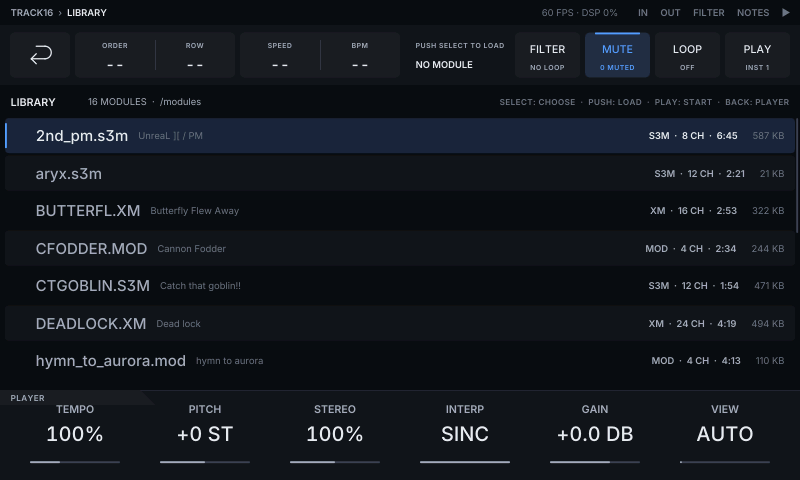
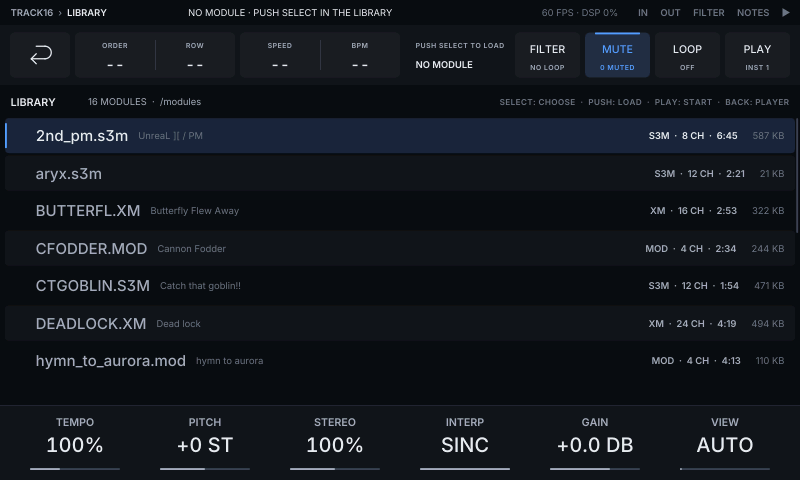
Slimmer knob strip, lasting status in the top line
The knob strip loses its PLAYER tab and 24 lpx; the rain gets the room.
The status row shows PLAYING: / PAUSED: / READY: <title> (or WAITING
FOR THE CLOCK:); a message replaces it for 4 s, then it comes back.

diff --git a/app/Screen.cpp b/app/Screen.cpp
@@ -32,7 +32,8 @@ const juce::String kDot = juce::String(juce::CharPointer_UTF8("\xC2\xB7"));     
 
 // The body (canvas lpx) and the rain area (LCD px).
 const juce::Rectangle<float> kBody {0, L::bodyY + 1, theme::kCanvasW, L::stripY - L::bodyY - 1};
-constexpr float kRainX = 8, kRainY = 96, kRainW = 784, kRainH = 284; // inside the body: 152…606 lpx
+constexpr float kRainX = 8, kRainY = 96, kRainW = 784; // inside the body (LCD px = lpx × 0.625)
+constexpr float kRainH = L::contentBottom * Screen::kWidth / theme::kCanvasW - kRainY; // to the body's bottom margin
 
 std::uint64_t nowNs() noexcept
 {
@@ -352,11 +353,10 @@ struct Screen::KnobStrip final : juce::Component
     std::array<juce::String, 6> text {};
     std::array<double, 6> touchedAt {-1e9, -1e9, -1e9, -1e9, -1e9, -1e9};
     std::array<bool, 6> underlined {};
-    juce::String tab = "PLAYER";
 
     juce::Rectangle<int> column(int n) const
     {
-        return juce::Rectangle<float>(L::columnX0 + L::columnW * static_cast<float>(n), L::tabH, L::columnW, L::stripH - L::tabH).toNearestInt();
+        return juce::Rectangle<float>(L::columnX0 + L::columnW * static_cast<float>(n), 0, L::columnW, L::stripH).toNearestInt();
     }
     void set(int n, float v, const juce::String& t)
     {
@@ -379,11 +379,6 @@ struct Screen::KnobStrip final : juce::Component
         g.setColour(c::surface1);
         g.fillRect(0.0f, L::stripY, theme::kCanvasW, L::stripH);
         theme::hline(g, 0, theme::kCanvasW, L::stripY, c::border);
-        juce::Path tabPath;
-        tabPath.addQuadrilateral(0, L::stripY, L::tabTopW, L::stripY, L::tabW, L::stripY + L::tabH, 0, L::stripY + L::tabH);
-        g.setColour(c::surface2);
-        g.fillPath(tabPath);
-        theme::text(g, 16, L::stripY + 13, Align::Left, Text::Label, c::text2, tab);
         for (int n = 0; n < 6; ++n)
         {
             const auto i = static_cast<std::size_t>(n);
@@ -608,7 +603,12 @@ void Screen::setStatus(const Status& s)
     status_->set(status_->diag, statusBase_);
 }
 
-void Screen::event(const juce::String& text) { status_->set(status_->event, text.toUpperCase()); }
+// A message in the status row for kEventMs; then the lasting state comes back (frame(): PLAYING: <title>, …).
+void Screen::event(const juce::String& text)
+{
+    status_->set(status_->event, text.toUpperCase());
+    eventUntilMs_ = lastFrameMs_ + kEventMs;
+}
 
 void Screen::start()
 {
@@ -1274,11 +1274,7 @@ bool Screen::handle(const io::ControlEvent& e, double nowMs)
         else
             setView(View::Library);
         break;
-    case C::Play:
-        if (song_)
-            event(player_.playing() ? juce::String("PAUSED") : "PLAYING " + juce::String::fromUTF8(song_->title.c_str()));
-        player_.togglePlay();
-        break;
+    case C::Play: player_.togglePlay(); break;
     case C::Stop:
         player_.stop();
         if (shift_) // everything back: mutes, solos
@@ -1476,6 +1472,21 @@ void Screen::frame(double nowMs, float fps)
     player_.collect();
     takeLoaded();
     takeProbed();
+    // The status row's lasting state, once a message has had its time: PLAYING: / PAUSED: / READY: <title>.
+    if (nowMs >= eventUntilMs_)
+    {
+        juce::String state = "NO MODULE " + kDot + " PUSH SELECT IN THE LIBRARY";
+        if (song_)
+        {
+            const auto pos = player_.position();
+            const char* what = player_.syncState() == Player::SyncWaiting ? "WAITING FOR THE CLOCK: "
+                             : player_.playing()                          ? "PLAYING: "
+                             : pos.order == 0 && pos.row == 0             ? "READY: "
+                                                                          : "PAUSED: ";
+            state = what + juce::String::fromUTF8(song_->title.c_str());
+        }
+        status_->set(status_->event, state.toUpperCase());
+    }
     if (const int m = player_.measurements(); m != lastMeasurements_)
     {
         lastMeasurements_ = m;

diff --git a/app/Theme.h b/app/Theme.h
@@ -58,15 +58,16 @@ inline constexpr float radiusXs = 4, radiusS = 6, radiusM = 8, radiusL = 12;
 inline constexpr float pad = 16, gap = 8;
 namespace layout
 {
-inline constexpr float statusH = 40, contextY = 40, contextH = 96, stripH = 144, stripY = kCanvasH - stripH;
-inline constexpr float bodyY = contextY + contextH, contentTop = bodyY + pad, contentBottom = stripY - pad; // 152–608
+inline constexpr float statusH = 40, contextY = 40, contextH = 96, stripH = 120, stripY = kCanvasH - stripH;
+inline constexpr float bodyY = contextY + contextH, contentTop = bodyY + pad, contentBottom = stripY - pad; // 152–632
 inline constexpr float ctlY = contextY + 12, ctlH = 72, captionY = 72, valueY = 104;
 inline const juce::Rectangle<float> slotA {16, ctlY, 96, ctlH}, slotB {120, ctlY, 256, ctlH}, slotC {384, ctlY, 256, ctlH},
     slotD {648, ctlY, 160, ctlH}, slotE {824, ctlY, 440, ctlH};
 inline constexpr float readoutX = 664, menuButtonW = 104;
 inline juce::Rectangle<float> menuButton(int i) { return {slotE.getX() + (menuButtonW + gap) * static_cast<float>(i), ctlY, menuButtonW, ctlH}; }
-inline constexpr float tabW = 248, tabTopW = 224, tabH = 24, columnX0 = 16, columnW = 208;
-inline constexpr float columnCaptionY = 654, columnValueY = 694, columnTrackY = 738, columnUnderlineY = 720; // large type
+inline constexpr float columnX0 = 16, columnW = 208;
+inline constexpr float columnCaptionY = stripY + 27, columnValueY = stripY + 63, columnUnderlineY = stripY + 87,
+                       columnTrackY = stripY + 101; // large type
 inline constexpr float meterColumnX = 1176;
 } // namespace layout
 

diff --git a/app/Screen.h b/app/Screen.h
@@ -193,6 +193,8 @@ private:
     double beatsSaveMs_ = 0;
     double layoutSaveMs_ = 0, outsMeterMs_ = 0;
     double lastFrameMs_ = 0, backDownMs_ = -1;
+    static constexpr double kEventMs = 4000; // how long a message stays in the status row
+    double eventUntilMs_ = 0;
     juce::String statusBase_;
     std::array<double, 16> padHitMs_ {};
     std::array<float, kMaxChannels> peakHold_ {}; // the rain's level peaks, and when each was reached
